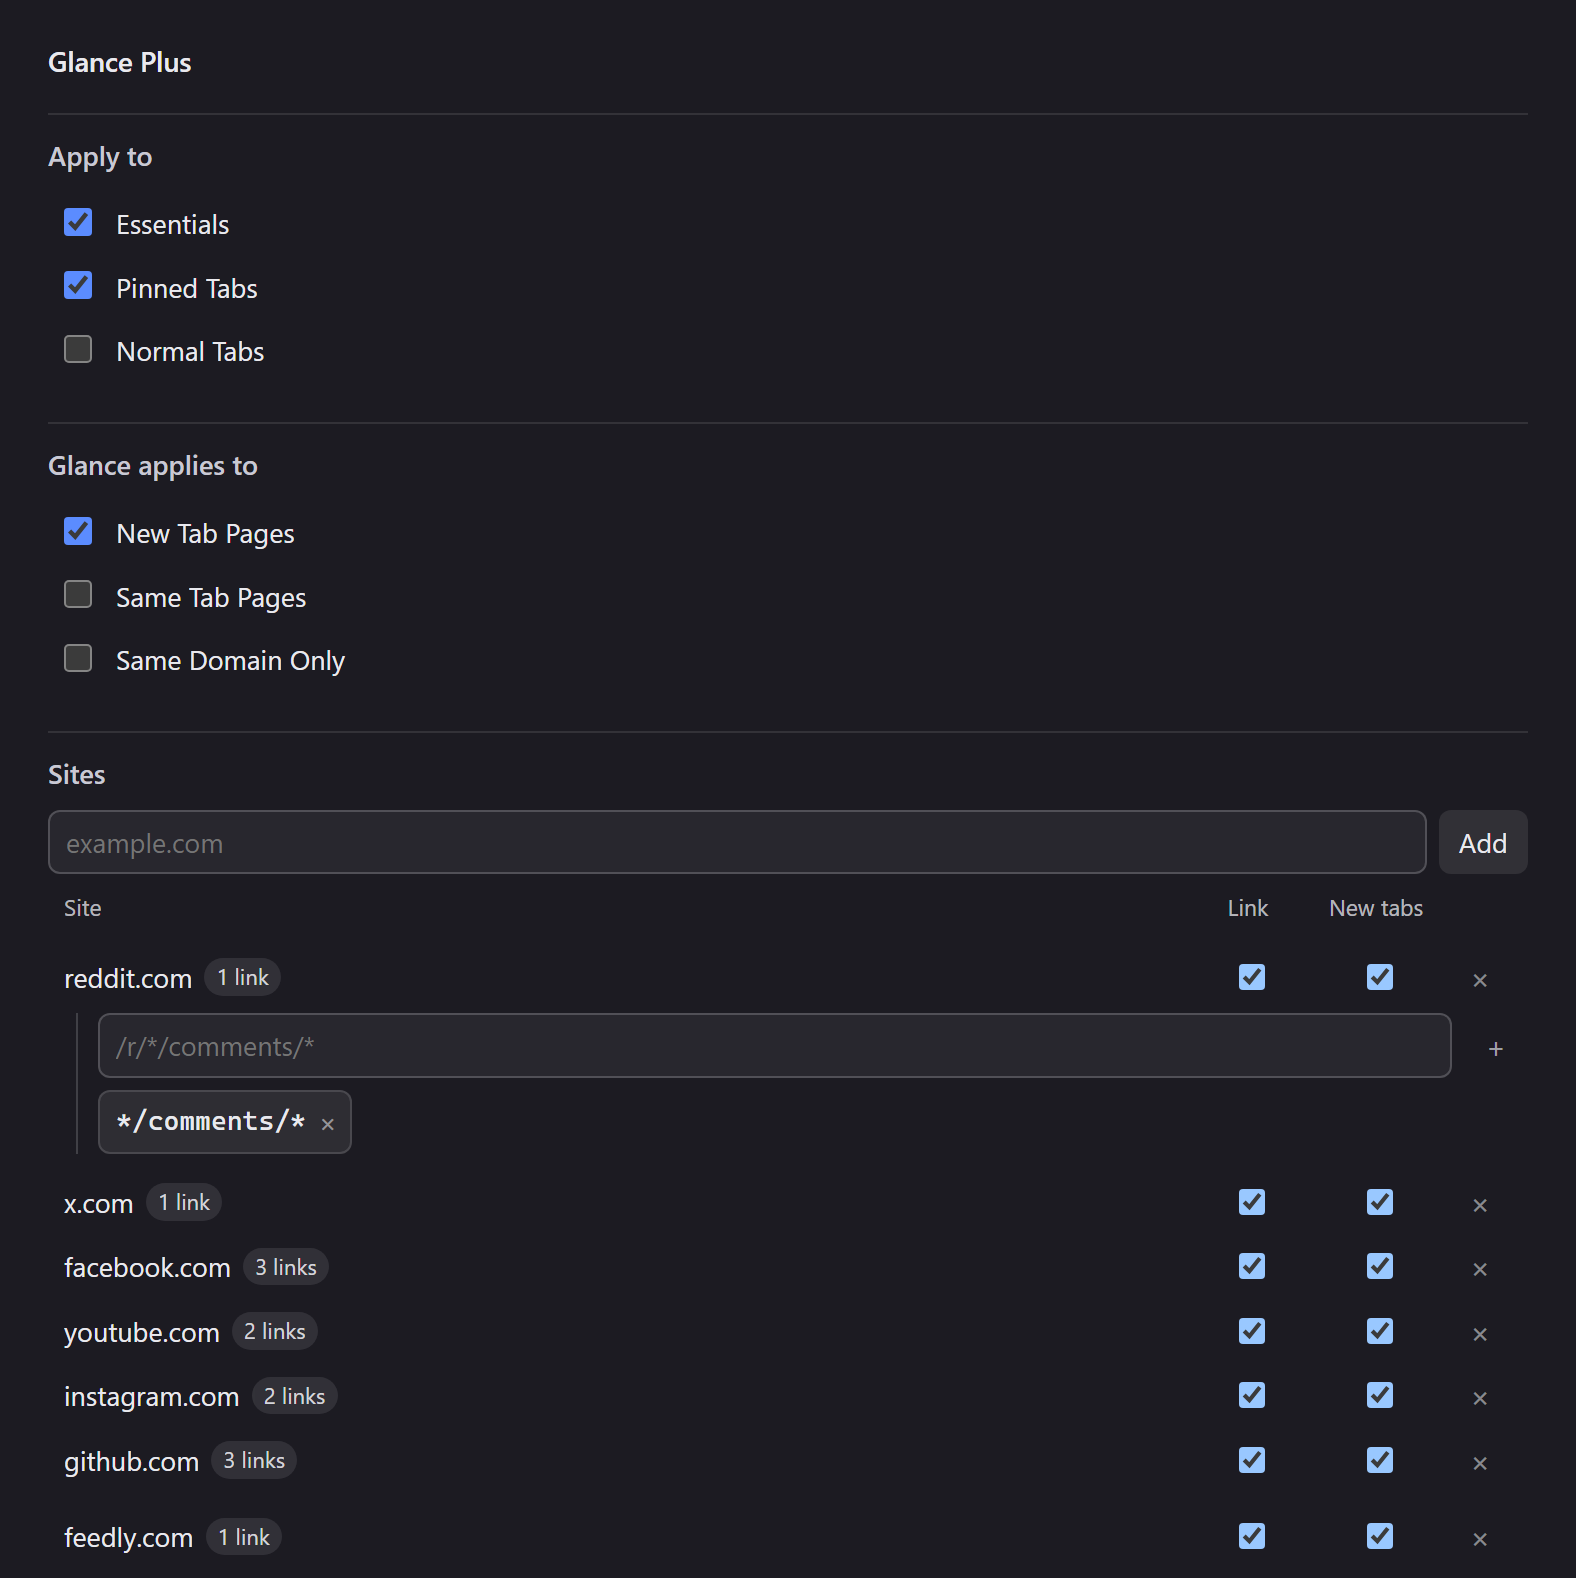
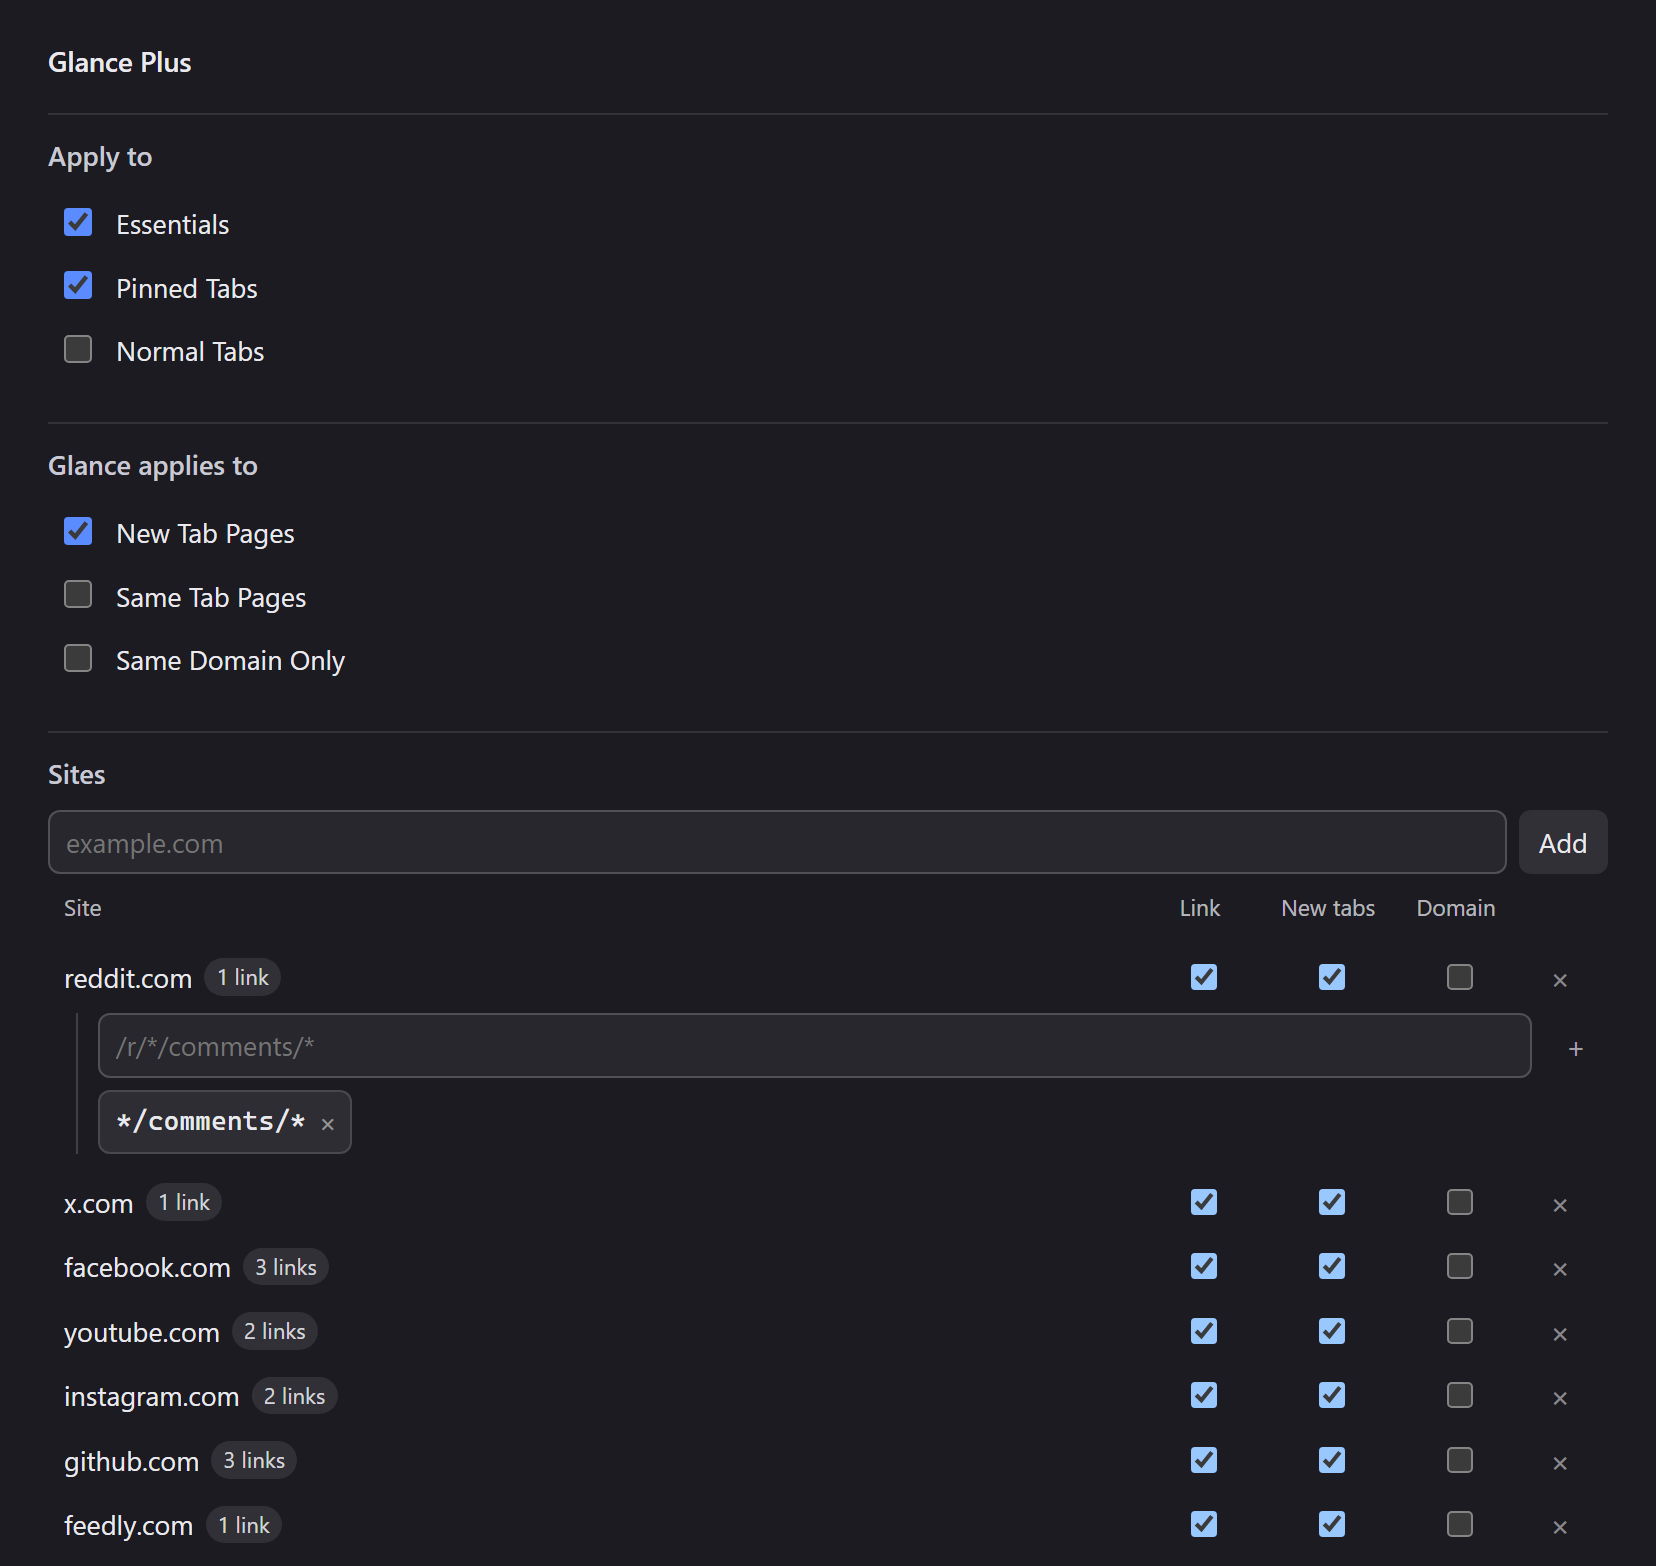
feat: give each site row a Domain switch
A row already answers only for its own domain, so a Domain switch read
from the target could never change anything. It is read from the tab
that starts the open instead: with it ticked, pages leaving that site
open as ordinary tabs, and a subdomain still counts as the site.

Off on every row, shipped ones included, so nothing changes until it is
turned on. The screenshot gains the fourth column.

diff --git a/scripts/zen-glance-plus.uc.js b/scripts/zen-glance-plus.uc.js
@@ -213,6 +213,28 @@
   }
 
   /**
+   * A row's `Domain` switch answers for pages opened from that row's site: with
+   * it on, a page that leaves the site is not glanced. A row for the target
+   * already answers only for its own domain, so the switch has to be read from
+   * the tab that started the open, not from the address being opened.
+   */
+  function sourceRowBlocks(parent, url) {
+    const source = hostOfUrl(parent?.linkedBrowser?.currentURI?.spec);
+    if (!source) {
+      return false;
+    }
+    const row = domainRuleFor(source);
+    if (!row?.domain) {
+      return false;
+    }
+    const target = hostOfUrl(url);
+    if (!target) {
+      return false;
+    }
+    return registrableDomain(target) !== registrableDomain(row.host);
+  }
+
+  /**
    * `Same Domain Only`: a page is glanced only when it belongs to the domain
    * the link was opened from. A source with no domain — a New Tab page — puts
    * no constraint on where it opens.
@@ -299,6 +321,7 @@
         host,
         tabs: entry.tabs !== false,
         links: entry.links === true,
+        domain: entry.domain === true,
         paths: parsePaths(entry.paths),
       });
     }
@@ -582,7 +605,7 @@
       return null;
     }
     const kind = sourceKind(parent);
-    if (blockedByDomain(parent, url)) {
+    if (blockedByDomain(parent, url) || sourceRowBlocks(parent, url)) {
       return null;
     }
     // A row for this site answers for its domain, in both directions.
@@ -795,7 +818,7 @@
     if (!url) {
       return null;
     }
-    if (blockedByDomain(parent, url)) {
+    if (blockedByDomain(parent, url) || sourceRowBlocks(parent, url)) {
       return null;
     }
     // A row for this site answers on its own, whatever the global switch says.
@@ -844,7 +867,7 @@
     if (current.some(rule => rule.host === host)) {
       return null;
     }
-    const next = [...current, { host, tabs: true, links: false, paths: [] }];
+    const next = [...current, { host, tabs: true, links: false, domain: false, paths: [] }];
     writeDomains(next);
     return next;
   }
@@ -980,6 +1003,7 @@
     row.appendChild(site);
     row.appendChild(makeBox("links", rule.links, `Links on ${rule.host}`));
     row.appendChild(makeBox("tabs", rule.tabs, `New tabs on ${rule.host}`));
+    row.appendChild(makeBox("domain", rule.domain, `Same domain only on ${rule.host}`));
     row.appendChild(remove);
 
     const paths = el(doc, "div", "zgp-paths");
@@ -1076,7 +1100,7 @@
     root.appendChild(add);
 
     const head = el(doc, "div", "zgp-head");
-    for (const title of ["Site", "Link", "New tabs", ""]) {
+    for (const title of ["Site", "Link", "New tabs", "Domain", ""]) {
       const cell = el(doc, "span", "zgp-headcell");
       cell.textContent = title;
       head.appendChild(cell);
@@ -1616,6 +1640,7 @@
     normaliseDomain,
     registrableDomain,
     blockedByDomain,
+    sourceRowBlocks,
     offerNewPresets,
     readSeeded,
     normalisePathPattern,

diff --git a/styles/domains.css b/styles/domains.css
@@ -116,7 +116,7 @@
 #zen-glance-plus-domains-table .zgp-head,
 #zen-glance-plus-domains-table .zgp-row {
   display: grid;
-  grid-template-columns: minmax(0, 1fr) 56px 56px 32px;
+  grid-template-columns: minmax(0, 1fr) 56px 56px 56px 32px;
   column-gap: 8px;
   align-items: center;
   width: 100%;
@@ -137,7 +137,8 @@
 
 #zen-glance-plus-domains-table .zgp-headcell:nth-child(2),
 #zen-glance-plus-domains-table .zgp-headcell:nth-child(3),
-#zen-glance-plus-domains-table .zgp-headcell:nth-child(4) {
+#zen-glance-plus-domains-table .zgp-headcell:nth-child(4),
+#zen-glance-plus-domains-table .zgp-headcell:nth-child(5) {
   display: flex;
   justify-content: center;
   text-align: center;

diff --git a/README.md b/README.md
@@ -17,7 +17,7 @@
 </p>
 
 <p align="center">
-  <img src="assets/settings-panel.png" alt="Glance Plus settings: switches for the tab kinds a Glance applies to, and a table of sites each with a Link switch, a New tabs switch and its link patterns" width="760">
+  <img src="assets/settings-panel.png" alt="Glance Plus settings: switches for the tab kinds a Glance applies to, and a table of sites each with Link, New tabs and Domain switches plus its link patterns" width="760">
 </p>
 
 ## What it changes
@@ -51,7 +51,9 @@ A tab is classified once: essentials first, because they are pinned as well, the
 
 ### Sites
 
-Add a domain, and its row has two switches: **Link** for clicks that would replace the page you are on, and **New tabs** for links that open a tab. A row answers for its domain and every subdomain, so `reddit.com` covers `old.reddit.com`, and it overrides the five switches in both directions: with **New tabs** off, that site never glances a new tab, even from an essential.
+Add a domain, and its row has three switches: **Link** for clicks that would replace the page you are on, **New tabs** for links that open a tab, and **Domain** to keep pages opened from that site inside it. A row answers for its domain and every subdomain, so `reddit.com` covers `old.reddit.com`, and it overrides the switches above in both directions: with **New tabs** off, that site never glances a new tab, even from an essential.
+
+**Domain** is the per-site form of `Same Domain Only`, read from the tab that starts the open rather than from the address being opened: with it ticked on `reddit.com`, a link leaving Reddit opens as an ordinary tab, while `old.reddit.com` still glances because a subdomain is the same site. It is off on every row, including the shipped ones.
 
 Changes save as you make them and apply to the next page you open.
 
@@ -74,7 +76,7 @@ Patterns match the address path and query, never the domain, because the row alr
 - Zen holds one Glance at a time. When a second page matches while one is open, the open one is turned into a real tab and the new page is shown as a Glance.
 - A page that would have opened in a background tab opens as a Glance instead, which brings it on screen.
 - A link that opens a tab from inside a page — `target="_blank"`, a middle click, `window.open` — is judged on the address it will load, not the empty tab that carries it. That is what makes a post clicked inside its own site's essential open as a Glance, which Zen's own rule refuses because the domains match.
-- One thing is out of reach: a plain left click that navigates the tab you are already on creates no tab at all, so there is nothing to divert. `Apply to Normal Tab Redirection` and a row's **Link** switch cover the page-initiated opens that do reach the browser window, such as a context menu's "open link in this tab". Nothing typed in the address bar is affected.
+- One thing is out of reach: a plain left click that navigates the tab you are already on creates no tab at all, so there is nothing to divert. **Same Tab Pages** and a row's **Link** switch cover the page-initiated opens that do reach the browser window, such as a context menu's "open link in this tab". Nothing typed in the address bar is affected.
 - Essential and pinned tab creation, "open all in tabs", session restore and unloaded opens are left alone.
 - Zen's own Glance switch wins. With Glance turned off in `Settings > Look and Feel`, this mod does nothing.
 - Nothing is converted while Zen runs a Glance animation.

diff --git a/CHANGELOG.md b/CHANGELOG.md
@@ -1,5 +1,10 @@
 # Changelog
 
+## 1.0.13 — 2026-10-27
+
+- A site row has a third switch, **Domain**, the per-site form of `Same Domain Only`: pages opened from that site glance only while they stay in it. It reads the tab that started the open rather than the address being opened, because a row already answers only for its own domain, so a target-side reading would have been a switch that did nothing. Subdomains still count as the same site. Off on every row, shipped ones included.
+- The settings screenshot gains the fourth column, rendered from the shipped table stylesheet.
+
 ## 1.0.12 — 2026-10-27
 
 - A preset added in a later version now reaches a list that already exists. Each shipped site is offered once, ever, and recorded as offered, so Feedly appears on an install that predates it while a row you deleted stays deleted.
